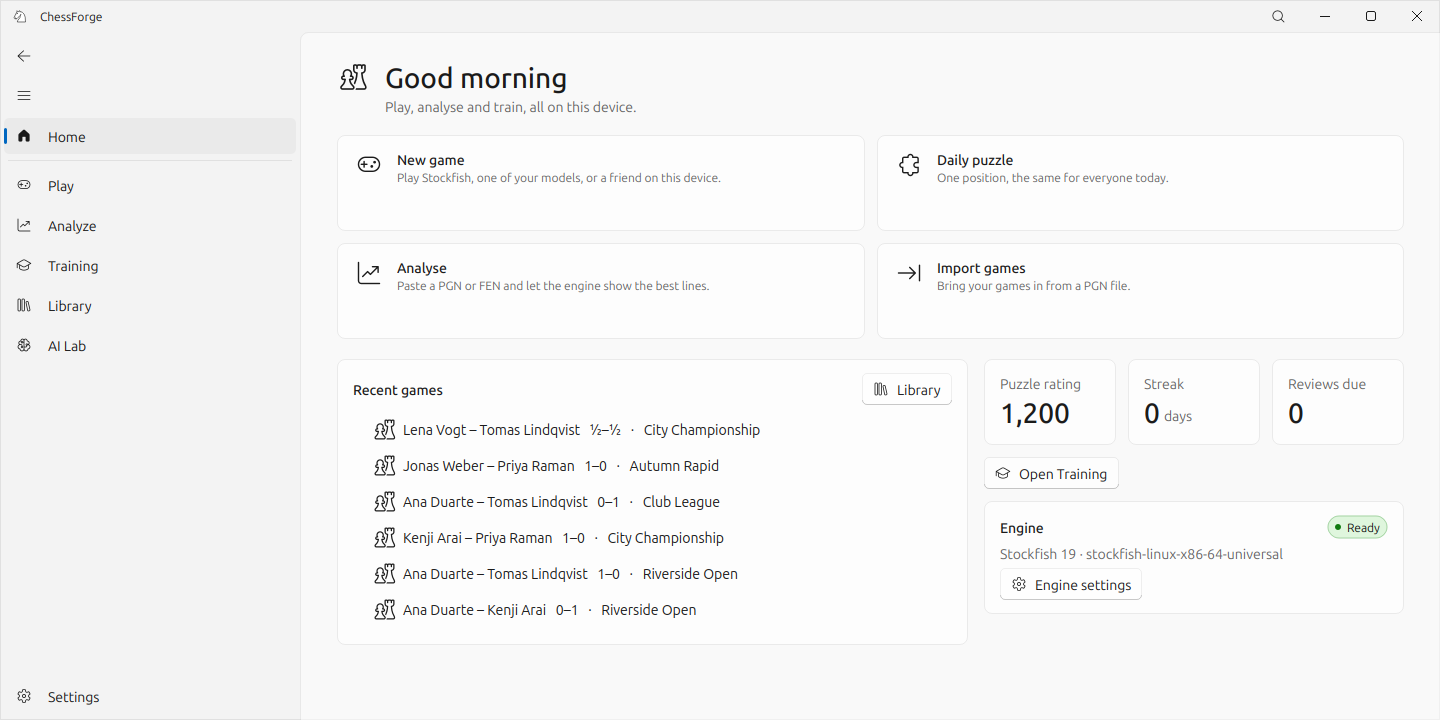
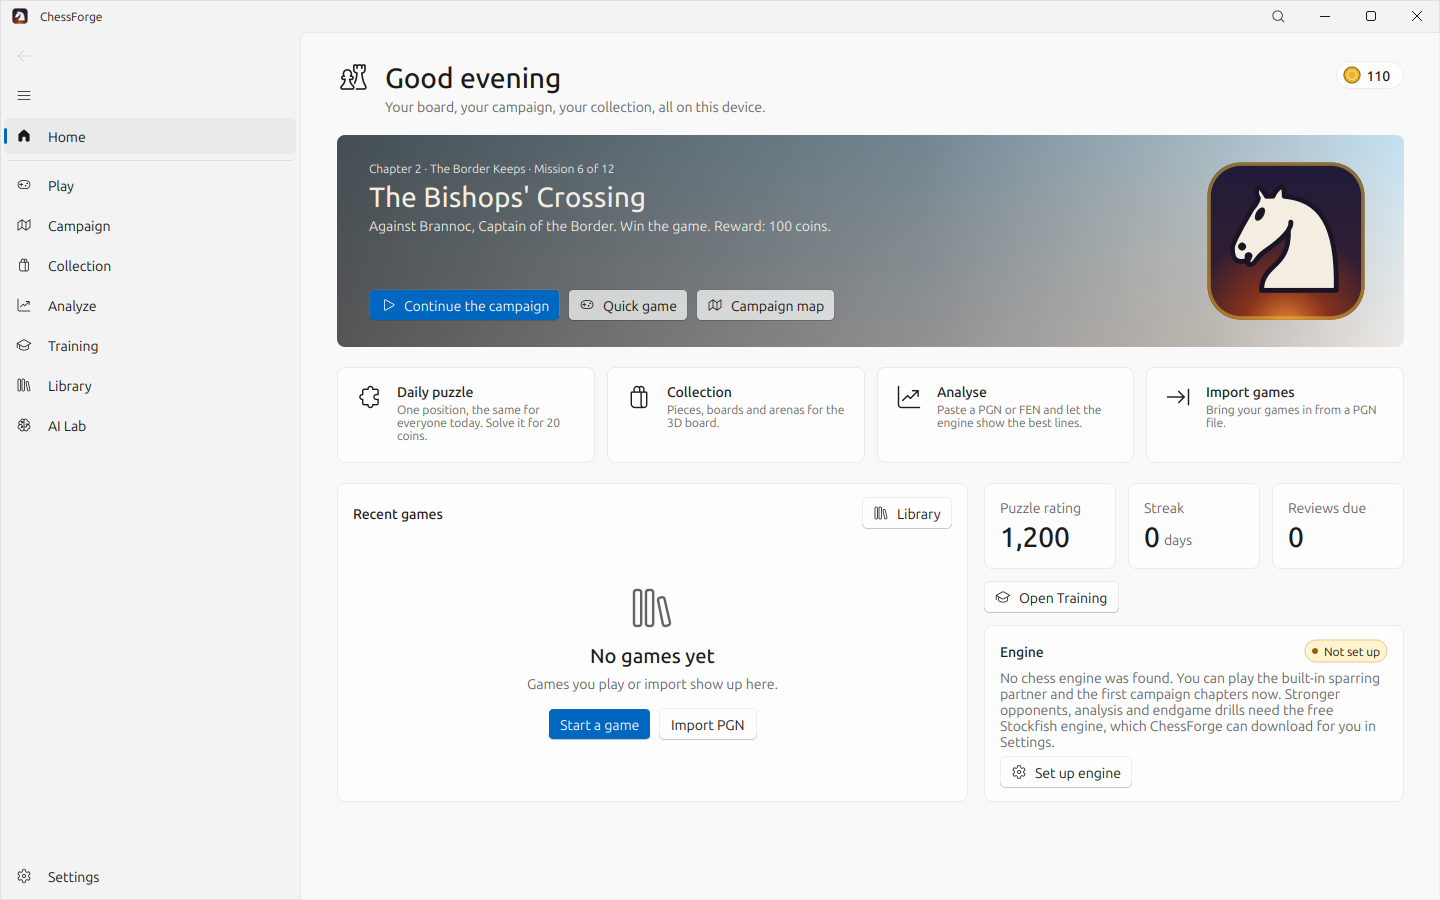
Present ChessForge as a 3D chess game: campaign, collection and the 3D arena

diff --git a/README.md b/README.md
@@ -1,8 +1,11 @@
 # ChessForge
 
-**A local chess workstation for Windows and Linux: play and analyse with Stockfish, train with puzzles and drills,
-keep a game library, and train your own neural network.** Built with [FluentQt](https://github.com/pntrungbk15/fluentqt-showcase)
-on PyQt5.
+**A 3D chess game and chess workstation for Windows and Linux.**
+- Play on a modelled board in an arena, or follow a twelve-mission campaign.
+- Collect piece, board and arena looks with coins earned in play.
+- Analyse with Stockfish, train with puzzles and drills, keep a game library, and train your own neural network.
+
+Built with [FluentQt](https://github.com/pntrungbk15/fluentqt-showcase) on PyQt5.
 
 ![Portfolio](https://img.shields.io/badge/portfolio-showcase_only-1F3A5F)
 ![Source](https://img.shields.io/badge/source-private-6B6B6B)
@@ -12,11 +15,13 @@ on PyQt5.
 > **About this repository.** It presents ChessForge through screenshots and a written overview. It contains no source
 > code: the application's source is private at this stage.
 
-![Game review on the Analysis page, dark theme](assets/chess-analysis-dark.png)
+![A campaign mission on the 3D board against the built-in sparring partner, dark theme](assets/chess-mission-3d.png)
 
 | At a glance | |
 |---|---|
-| **What** | An independent desktop application: play, analysis, training, a game database and a neural-network lab in one tool that runs locally. |
+| **What** | An independent desktop application: a 3D chess game with a campaign and a cosmetic collection, plus analysis, training, a game database and a neural-network lab, all running locally. |
+| **3D** | A custom OpenGL 2.1 renderer: physically based shading, planar shadows, a procedural arena, and a camera you can orbit and zoom while picking stays exact. |
+| **Progression** | Twelve missions judged move by move; a coin ledger whose rows are keyed by the event they pay for, so nothing is paid twice; purchases in one transaction. Coins buy looks only, and there is no way to buy coins in this version. |
 | **Engine integration** | Stockfish over UCI in its own processes; live multi-line analysis; background game review with an evaluation graph, critical moments and accuracy. |
 | **AI Lab** | Datasets from your games or from Stockfish, a policy/value network trained with PyTorch in a separate process, MCTS self-play, checkpoint evaluation, and play against your own models. |
 | **Data** | A local SQLite library with background PGN import, search, filters, tags, collections and duplicate detection. |
@@ -26,11 +31,15 @@ on PyQt5.
 
 | Area | What it does |
 |---|---|
-| **Play** | Against Stockfish (levels 0–20), a friend, a model trained in the AI Lab, or engine against engine; clocks with increment, any FEN start, draws, takebacks, rematch. |
+| **3D board** | On by default with hardware OpenGL: a CC0 chess set in an arena; drag outside the squares to turn it, wheel to zoom, C to reset; the camera never moves by itself. |
+| **Campaign** | Three chapters against named opponents, from a built-in sparring engine to Stockfish level 11; goals are win, do not lose, or hold out for a number of moves; rewards are paid once. |
+| **Collection** | Five piece finishes, five boards and four arenas, previewed live; coins come from missions, wins and draws against the computer, the daily puzzle and achievements. |
+| **Play** | Against Stockfish (levels 0–20), the built-in sparring partner (no download), a friend, a model trained in the AI Lab, or engine against engine; clocks with increment, any FEN start, draws, takebacks, rematch. |
 | **Analysis** | Live multi-line analysis with the best move drawn as an arrow; **Review game** grades every move in the background and marks the critical moments. |
 | **Training** | 2,475 puzzles by theme and rating band, SM-2 spaced repetition of missed puzzles, 3,815 named opening lines to drill, endgame drills against Stockfish. |
 | **AI Lab** | Stockfish datasets generated by several engine processes in parallel, skipping repeated positions and committed in chunks, so a stopped or crashed run resumes where it left off. Every job sits in a persistent queue with progress, pause, resume, cancel and retry. |
-| **Board** | A 2D board with seven themes and an optional OpenGL 3D board; drag, click or keyboard play; right-drag arrows. |
+| **Board** | A 2D board with seven themes where 3D is unavailable and in training; drag, click or keyboard play; right-drag arrows. |
+| **Desktop** | A splash screen with the real loading steps and Retry on failure; a system tray icon with Open/Hide, New game, Continue the campaign and Quit. |
 | **Commands** | Ctrl+K opens a command palette for every frequent action. |
 | **Accessibility** | Full keyboard play, reduced motion, a high-contrast board, text scaling, light/dark/system theme. |
 
@@ -38,8 +47,10 @@ on PyQt5.
 
 | | |
 |---|---|
-| ![Home](assets/chess-home.png) | ![Play](assets/chess-play.png) |
-| **Home:** today's puzzle, recent games, training progress, engine readiness. | **Play:** clocks, move list, captured material and an evaluation bar. |
+| ![Home](assets/chess-home.png) | ![Campaign](assets/chess-campaign.png) |
+| **Home:** the next campaign mission first, then quick actions, recent games and training progress. | **Campaign:** chapters, the mission briefing and achievements. |
+| ![Collection](assets/chess-collection.png) | ![Play](assets/chess-play.png) |
+| **Collection:** a look previewed on the live 3D board; coin history; buying coins is not offered. | **Play:** clocks, move list, captured material and an evaluation bar (2D board). |
 | ![Analysis](assets/chess-analysis.png) | ![Training](assets/chess-training.png) |
 | **Analysis:** live Stockfish lines and a reviewed game. | **Training:** puzzles by theme and rating with hints and progress. |
 | ![Library](assets/chess-library.png) | ![AI Lab](assets/chess-lab.png) |
@@ -47,16 +58,17 @@ on PyQt5.
 | ![Datasets](assets/chess-lab-datasets.png) | ![Command palette](assets/chess-commands.png) |
 | **Datasets:** a Stockfish generation running in the job queue. | **Ctrl+K:** the command palette. |
 
-![3D board, dark theme](assets/chess-3d-dark.png)
+Game-page screenshots use demo progress.
 
 ## Architecture
 
 ```
 app           main window, lazily built pages, cross-page actions
 game/         game model (PGN tree + cursor), clocks, play controller
-engine/       UCI protocol, one process per engine, detection and probing
+engine/       UCI protocol, one process per engine, detection and probing, a built-in sparring engine
+progression/  campaign missions and their judge, coin ledger, collection, achievements
 analysis/     background game review
-rendering/    board view, 2D renderer, OpenGL 3D renderer, themes
+rendering/    board view and camera, 2D renderer, OpenGL 3D renderer and arena, themes and finishes
 storage/      SQLite schema and repositories (games, collections, runs, training)
 training/     puzzle, opening and endgame catalogues, drills, rating, SM-2
 ai/           training process and controller, network, MCTS, datasets
@@ -76,7 +88,12 @@ Measured with the project's benchmark scripts (medians):
 | Import 10,000 PGN games | 295 ms, worst GUI stall 20 ms |
 | Library page at 100,000 games | 1.1 ms (text search 23 ms) |
 | Stockfish dataset, depth 8, 4 engine processes through the job queue | 1,119 positions/s, worst GUI stall 17 ms |
-| 3D drag on Intel Iris Xe | 16.7 ms per frame (vsync), 1.2 ms CPU |
+| 3D drag on Intel Iris Xe, with the arena | 16.7 ms per frame (vsync), 1.25 ms CPU |
+
+## Not in this version
+
+Online multiplayer (local two-player only), buying coins (disabled and labelled as a future feature), and playtested
+difficulty for the campaign.
 
 ## Author
 
